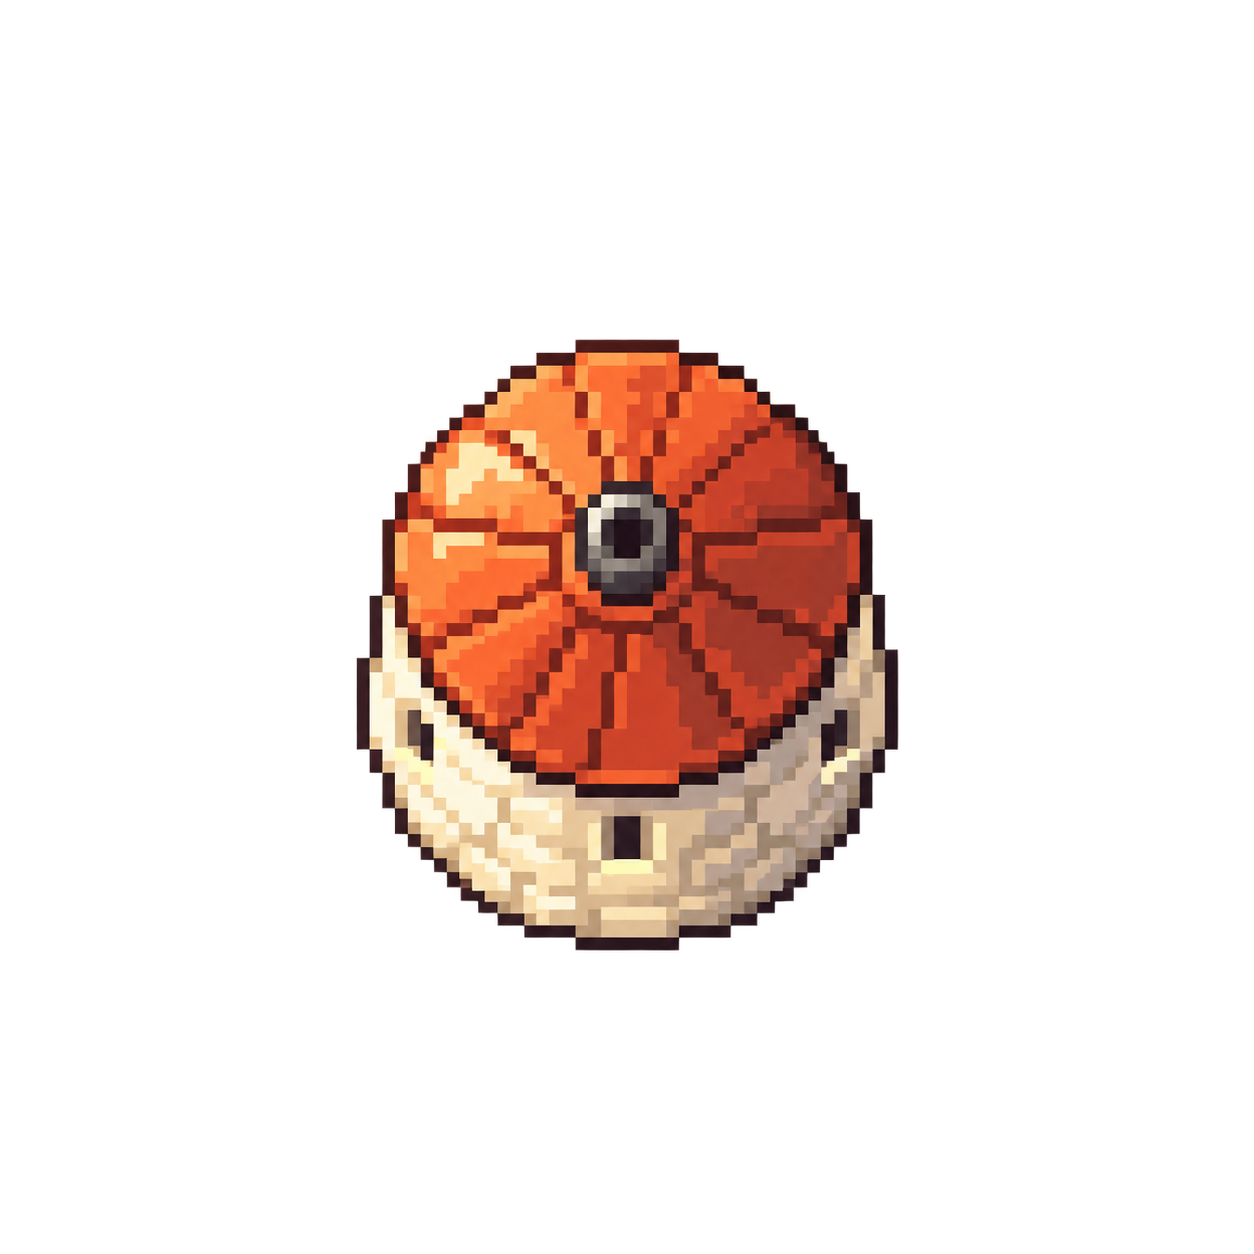
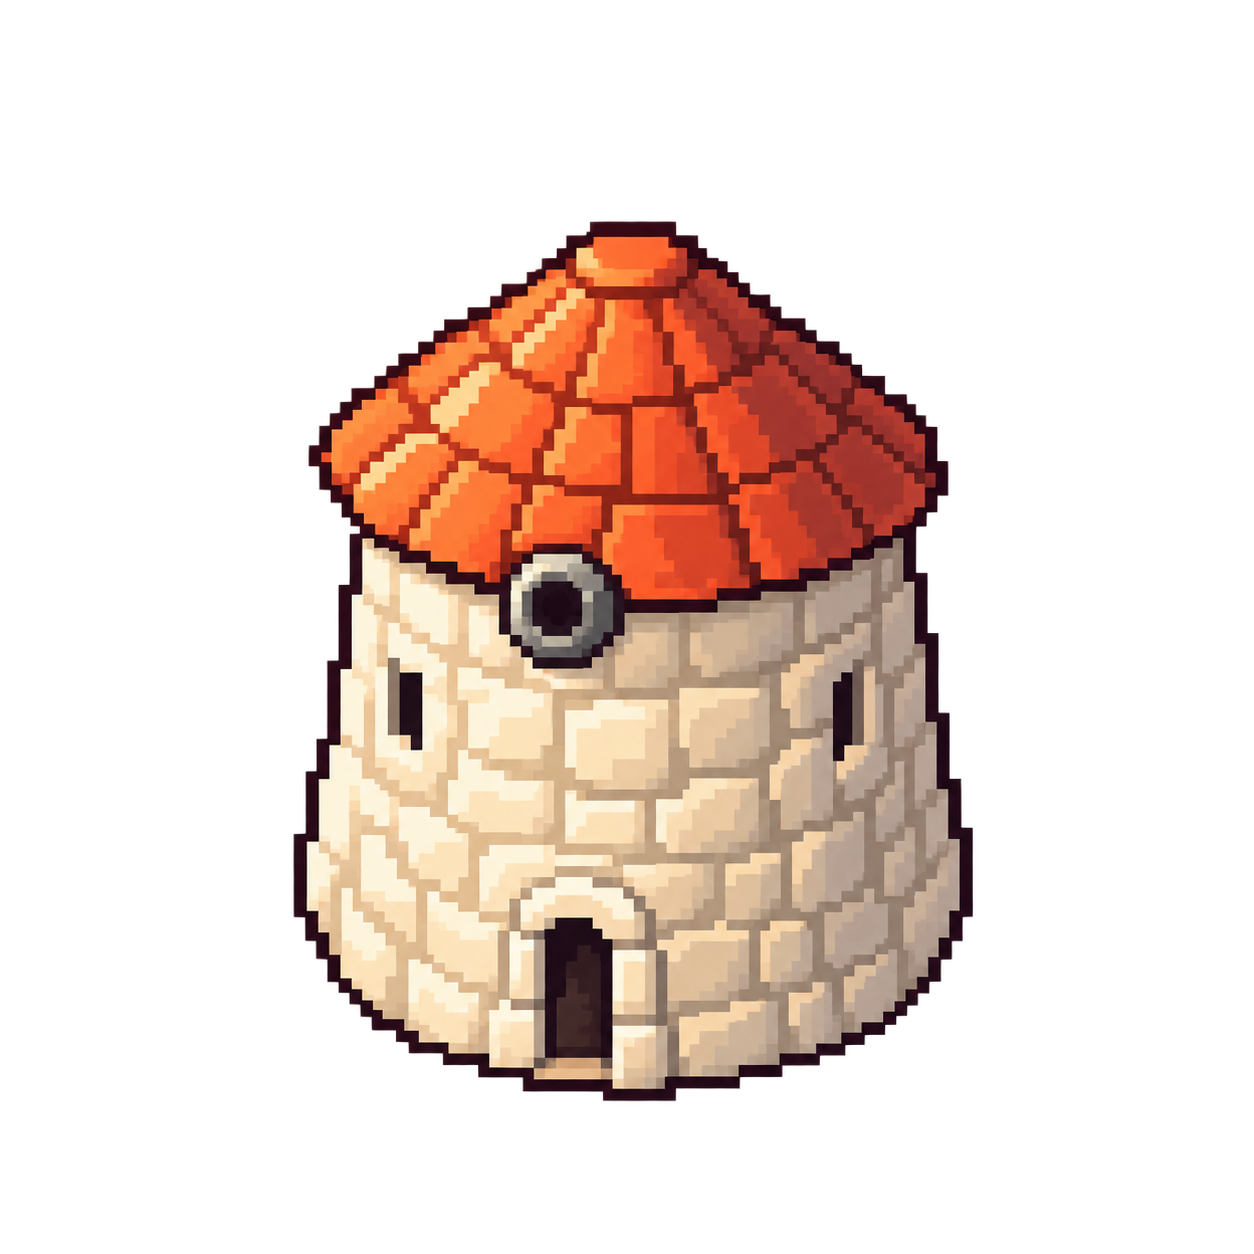
RC Prix Sky ground: the designer's revised windmill (a 3/4 view, its sails turning on the tower's spindle) and stone bridge (seen from the side, up to the right like the field's short edges), bridges only where a field's edge crosses the river, carrying its hedge line over (the user: one led nowhere

Changed region(s): [[0.2177, 0.1555, 0.7775, 0.9019]]

diff --git a/tools/art/rcprix_sky_from_sources.py b/tools/art/rcprix_sky_from_sources.py
@@ -137,9 +137,10 @@ EDGE_B = 76.0 * float(np.hypot(0.32, 0.86)) / (0.86 * 0.9 + 0.32 * 0.24)    # 82
 ANGLE_B = float(np.degrees(np.arctan2(0.86, 0.32)))                          # 69.6 (up to the right)
 HEDGES = {"hedge_low": 4, "hedge_tree_line": 6}                             # their thickness, art px
 RIVER_H = 22                                                                 # the river strip, banks and all
-DECOR = {"farmhouse_barn": 17, "village": 45, "church": 14, "windmill_tower": 11, "windmill_sails": 22,
-         "pond": 22, "haystacks": 14, "copse": 34, "stone_bridge": 32}       # width, game px (the bridge: its length,
-                                                                             # across the river's 22)
+DECOR = {"farmhouse_barn": 17, "village": 45, "church": 14, "windmill_tower": 24, "windmill_sails": 28,
+         "pond": 22, "haystacks": 14, "copse": 34, "stone_bridge": 20}       # width, game px (the bridge: seen from the
+                                                                             # side, running up to the right at 70 degrees)
+MILL_HUB = (558, 608)                  # the sails' spindle on the tower's painting (source px)
 
 
 def strip(name, thick, length):
@@ -166,15 +167,21 @@ def ground_pieces():
     save("river", pixelate(im, (round(im.width / k), RIVER_H), 10))
     for name, w in DECOR.items():
         im = Image.open(FIELD_SRC / f"{name}_source.png").convert("RGBA")
+        box = opaque_box(im)
         if name == "windmill_sails":
-            im = im.crop((0, 0, im.width, im.height))      # (the hub stays in the middle: it turns round it)
-        else:
-            im = im.crop(opaque_box(im))
+            # (cut square round its hub: it turns round its middle)
+            hub = (630, 629)
+            r = max(hub[0] - box[0], box[2] - hub[0], hub[1] - box[1], box[3] - hub[1])
+            box = (hub[0] - r, hub[1] - r, hub[0] + r, hub[1] + r)
+        elif name == "windmill_tower":
+            # (cut so the sails' spindle is its middle: RcSky.ground puts the sails on the tower's middle)
+            hx, hy = MILL_HUB
+            rx = max(hx - box[0], box[2] - hx)
+            ry = max(hy - box[1], box[3] - hy)
+            box = (hx - rx, hy - ry, hx + rx, hy + ry)
+        im = im.crop(box)
         h = max(1, round(im.height * w / im.width))
-        a = pixelate(im, (w, h), 10)
-        if name == "stone_bridge":
-            a = np.rot90(a).copy()                       # (upright, after: its length across the river)
-        save(f"decor_{name}", a)
+        save(f"decor_{name}", pixelate(im, (w, h), 10))
     print("  hedges, river, decor")
 
 

diff --git a/docs/mockups/rcprix_sky/ground_sources/README.md b/docs/mockups/rcprix_sky/ground_sources/README.md
@@ -32,12 +32,16 @@ These are **transparent high-resolution ImageGen paintings**. Keep the hedge and
 | `farmhouse_barn_source.png` | Farmhouse, barn and yard | 12 × 9 px |
 | `village_source.png` | Cluster of roofs around a small square | 32 × 24 px |
 | `church_source.png` | Cross-shaped roof and tower | 10 × 12 px |
-| `windmill_tower_source.png` | Tower and central spindle | 8 × 8 px |
-| `windmill_sails_source.png` | Detached four-arm sails; rotate around the central hub | 16 × 16 px |
-| `stone_bridge_source.png` | Horizontal stone bridge | 20 × 10 px |
+| `windmill_tower_source.png` | Standing stone tower, cap and front spindle, 3/4 view from south | 12 × 18 px |
+| `windmill_sails_source.png` | Upright detached four-arm sails; rotate around the central hub | 22 × 22 px |
+| `stone_bridge_source.png` | Raised stone bridge with deck and two arches, steep diagonal up to right | 14 × 34 px |
 | `pond_source.png` | Small irregular pond with grassy edge | 16 × 10 px |
 | `haystacks_source.png` | Three golden hay bales | 10 × 6 px |
 | `copse_source.png` | Small group of round trees | 24 × 18 px |
 | `river_source.png` | Straight blue river with sandy and grassy banks | Horizontal strip, about 4:1 |
 
-The new images were generated individually with the built-in ImageGen tool, using the accepted field paintings as style references. Their shared prompt specified a straight-down view, clustered pixel-art colour, full saturation, top-left lighting and a plain transparent background. The river prompt specified a continuous left-to-right strip with banks on both sides. All are **source paintings**, not pixel-locked game sprites. For the moving windmill, align the sails' hub with the tower's spindle after conversion.
+The new images were generated individually with the built-in ImageGen tool, using the accepted field paintings as style references. Their shared prompt specified clustered pixel-art colour, full saturation, top-left lighting and a plain transparent background. The river prompt specified a continuous left-to-right strip with banks on both sides. All are **source paintings**, not pixel-locked game sprites.
+
+### Revised landmarks
+
+The windmill tower, detached sails and bridge were repainted with ImageGen after the ground was reviewed in game. The windmill is now viewed from the south at a slight elevation, with its spindle on the front below the cap; place the sail hub there and rotate the sail sprite around its own centre. The bridge runs from lower left toward upper right, about 70° above horizontal, so its deck crosses the separately drawn horizontal river while the arches show on its lower-right face. These three files **replace the earlier source paintings**; the target game sizes are in the table above. The bridge's tall image contains transparent margins and should be fitted by its painted bounds, preserving its steep angle.

diff --git a/docs/mockups/rcprix_sky/platform_concepts/README.md b/docs/mockups/rcprix_sky/platform_concepts/README.md
@@ -1,0 +1,11 @@
+# RC Prix Sky · start platform concepts
+
+Three transparent high-resolution ImageGen concept paintings for a possible replacement of the current steel drone pad. These are **choice concepts**, not finished game-grid sprites. The selected design can be developed as a full piece after review. Each is intended for a roughly **104 × 94 game px** platform, seen from the game's elevated overhead view with light from the upper left.
+
+| File | Concept |
+| --- | --- |
+| `platform_A_grassy_islet.png` | Floating grassy islet, dirt runway, checkered line, windsock, small wooden hangar and earthy underside |
+| `platform_B_balloon_deck.png` | Wooden deck suspended from colourful balloon clusters, open runway and checkered line |
+| `platform_C_cloud_runway.png` | Solid cumulus platform with striped carpet runway, bunting, lights and checkered line |
+
+Made with the built-in ImageGen tool, one prompt per concept. The common prompt specified the toy-plane starting-platform footprint, open central runway, top-left light, clustered pixel-art finish, transparent background and no plane or interface. Each concept prompt supplied its own structure and decorations. Lagoon island, Sky stand-cloud, current pad guide and wood artwork were style or layout references as applicable.
